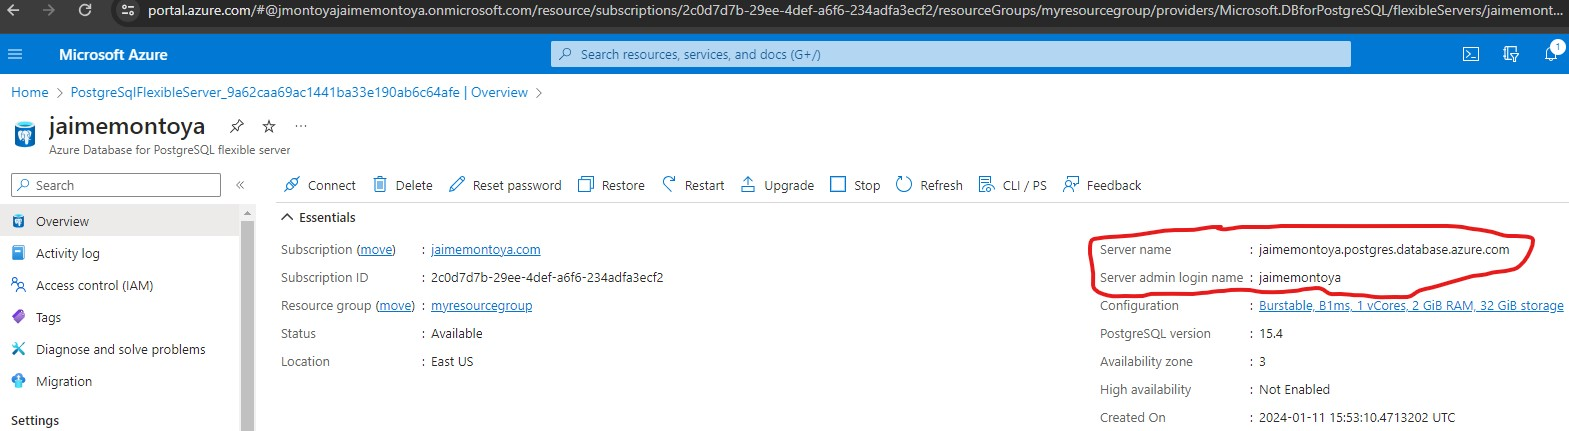
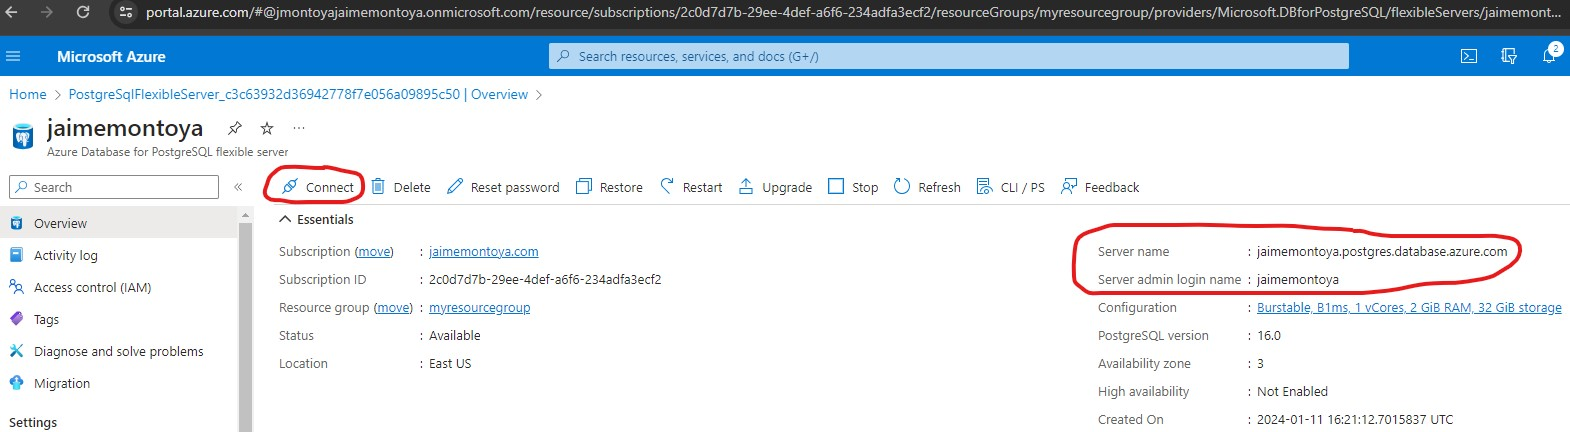
Open Azure Cloud Shell in the portal.

diff --git a/blog/2024/01/11/06/15/book-info-20240111-0615.php b/blog/2024/01/11/06/15/book-info-20240111-0615.php
@@ -1,4 +1,4 @@
 <?php
   $index->content .= 
-           "<p>In a previous post at <a href=\"https://jaimemontoya.com/blog/2023/12/17/11/41/\">https://jaimemontoya.com/blog/2023/12/17/11/41/</a>, I explained the process I followed for provisioning Azure relational database services to create a PostgreSQL database resource.</p><p>Instead of downloading  <a href=\"https://www.postgresguide.com/utilities/psql/\">psql</a>, I connected by using psql in <a href=\"https://learn.microsoft.com/en-us/azure/cloud-shell/overview\">Azure Cloud Shell</a> within the Azure portal.</p><p>I started by creating a new Azure Database for PostgreSQL Flexible server with the following configurations:</p><div><img src=\"/blog/2024/01/11/06/15/img/newAzureDatabaseForPostgreSQLFlexibleServer.jpg\" alt=\"New Azure Database for PostgreSQL Flexible server\" width=\"1010\" height=\"968\"></div><p>I made a note of my server name, server admin login name, and password for my newly created server from the <span class=\"cod\">Overview</span> section of my server:</p><div><img src=\"/blog/2024/01/11/06/15/img/serverNameAndAdminLogin.jpg\" alt=\"Server name ad admin login\" width=\"1569\" height=\"431\"></div><p>I opened Azure Cloud Shell in the portal by selecting the icon on the upper-left side:</p><div>Published: 6:15 AM GMT · Jan 11, 2024</div>\n";
+           "<p>In a previous post at <a href=\"https://jaimemontoya.com/blog/2023/12/17/11/41/\">https://jaimemontoya.com/blog/2023/12/17/11/41/</a>, I explained the process I followed for provisioning Azure relational database services to create a PostgreSQL database resource.</p><p>Instead of downloading  <a href=\"https://www.postgresguide.com/utilities/psql/\">psql</a>, I connected by using psql in <a href=\"https://learn.microsoft.com/en-us/azure/cloud-shell/overview\">Azure Cloud Shell</a> within the Azure portal.</p><p>I started by creating a new Azure Database for PostgreSQL Flexible server with the following configurations:</p><div><img src=\"/blog/2024/01/11/06/15/img/newAzureDatabaseForPostgreSQLFlexibleServer.jpg\" alt=\"New Azure Database for PostgreSQL Flexible server\" width=\"1010\" height=\"968\"></div><p>I made a note of my server name, server admin login name, and password for my newly created server from the <span class=\"cod\">Overview</span> section of my server. I clicked <span class=\"cod\">Connect</span> to open Azure Cloud Shell in the portal:</p><div><img src=\"/blog/2024/01/11/06/15/img/serverNameAndAdminLogin.jpg\" alt=\"Server name ad admin login\" width=\"1570\" height=\"432\"></div><div>Published: 6:15 AM GMT · Jan 11, 2024</div>\n";
 ?>
